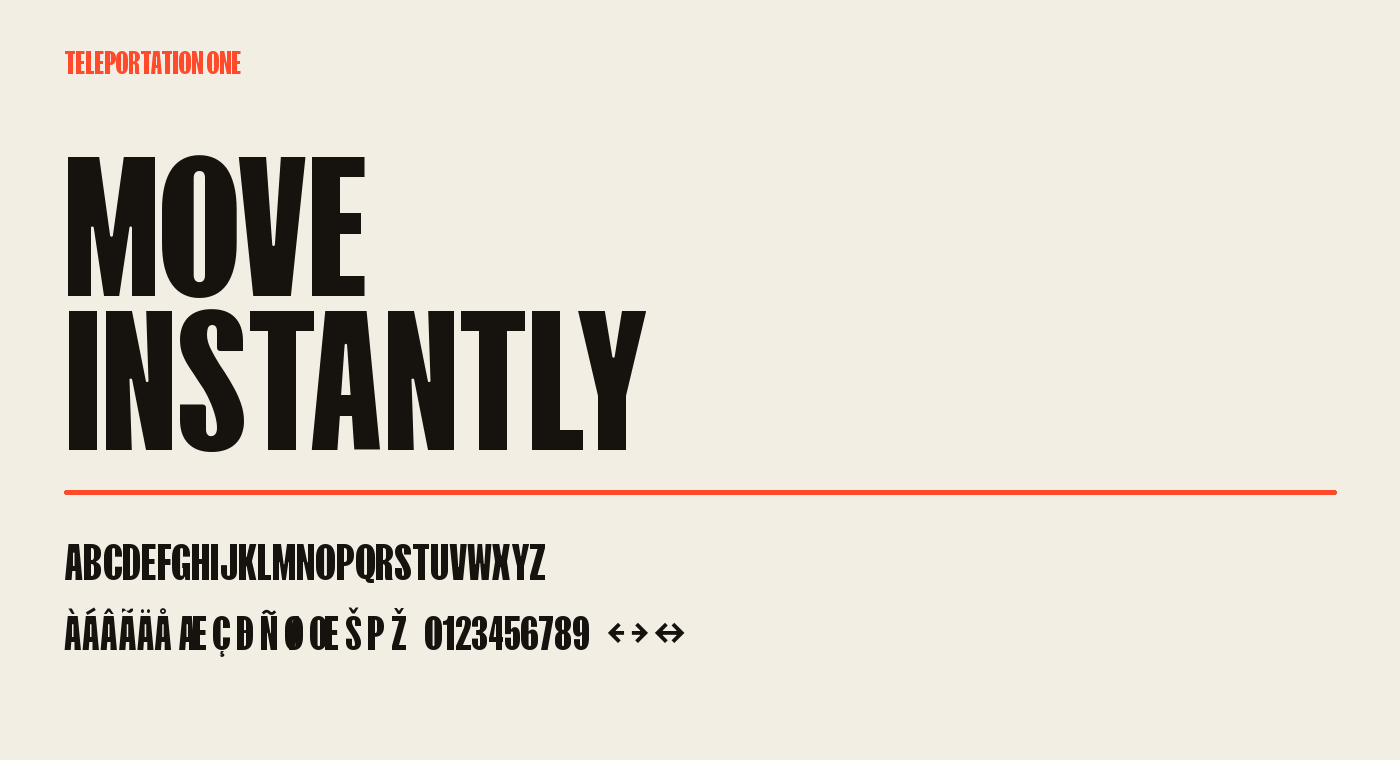
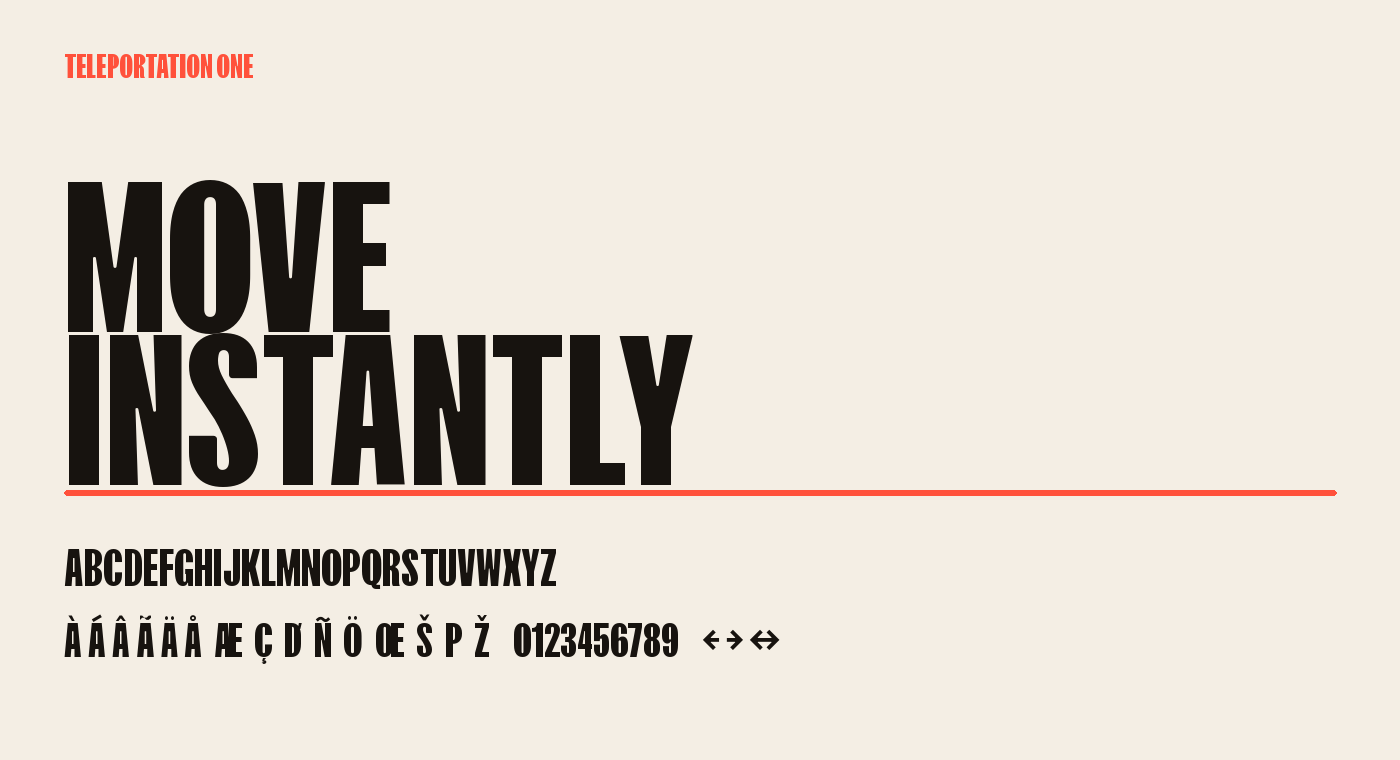
Render specimen with OpenType shaping

Changed region(s): [[0.0307, 0.1816, 0.4914, 0.6658], [0.0307, 0.6961, 0.5529, 0.8776], [0.0307, 0.0605, 0.1843, 0.1211]]

diff --git a/scripts/render_specimen.py b/scripts/render_specimen.py
@@ -1,0 +1,81 @@
+#!/usr/bin/env python3
+"""Render the project specimen through the same OpenType shaping used by apps."""
+
+from __future__ import annotations
+
+import argparse
+from pathlib import Path
+
+from PIL import Image, ImageDraw, ImageFont, features
+
+
+ROOT = Path(__file__).resolve().parents[1]
+FONT_PATH = ROOT / "fonts" / "ttf" / "TeleportationOne-Regular.ttf"
+DEFAULT_OUTPUT = ROOT / "documentation" / "teleportation-one-specimen.png"
+
+BACKGROUND = "#f4eee4"
+FOREGROUND = "#17130f"
+ACCENT = "#ff513b"
+
+
+def shaped_font(size: int) -> ImageFont.FreeTypeFont:
+    if not features.check_feature("raqm"):
+        raise RuntimeError("Pillow must be built with RAQM/HarfBuzz support")
+    return ImageFont.truetype(
+        FONT_PATH,
+        size,
+        layout_engine=ImageFont.Layout.RAQM,
+    )
+
+
+def draw_shaped(
+    draw: ImageDraw.ImageDraw,
+    xy: tuple[int, int],
+    text: str,
+    font: ImageFont.FreeTypeFont,
+    *,
+    fill: str = FOREGROUND,
+) -> None:
+    draw.text(
+        xy,
+        text,
+        font=font,
+        fill=fill,
+        direction="ltr",
+        language="en",
+        features=["kern", "liga"],
+        anchor="la",
+    )
+
+
+def render(output: Path) -> None:
+    image = Image.new("RGB", (1400, 760), BACKGROUND)
+    draw = ImageDraw.Draw(image)
+
+    draw_shaped(draw, (64, 48), "TELEPORTATION ONE", shaped_font(30), fill=ACCENT)
+    draw_shaped(draw, (64, 142), "MOVE", shaped_font(190))
+    draw_shaped(draw, (64, 295), "INSTANTLY", shaped_font(190))
+
+    draw.rounded_rectangle((64, 490, 1336, 495), radius=2, fill=ACCENT)
+
+    draw_shaped(draw, (64, 540), "ABCDEFGHIJKLMNOPQRSTUVWXYZ", shaped_font(46))
+    draw_shaped(
+        draw,
+        (64, 615),
+        "À Á Â Ã Ä Å  Æ  Ç  Ď  Ñ  Ö  Œ  Š  Þ  Ž    0123456789    ← → ↔",
+        shaped_font(42),
+    )
+
+    output.parent.mkdir(parents=True, exist_ok=True)
+    image.save(output, optimize=True)
+
+
+def main() -> None:
+    parser = argparse.ArgumentParser()
+    parser.add_argument("--output", type=Path, default=DEFAULT_OUTPUT)
+    args = parser.parse_args()
+    render(args.output)
+
+
+if __name__ == "__main__":
+    main()

diff --git a/README.md b/README.md
@@ -39,6 +39,12 @@ With the dependencies installed, run:
 The checks cover UFO validity, OpenType sanitization, Google Fonts Latin Core
 coverage, and the FontBakery Google Fonts profile.
 
+Regenerate the documentation specimen through OpenType shaping with:
+
+```sh
+python scripts/render_specimen.py
+```
+
 ## License and copyright
 
 Teleportation One is licensed under the SIL Open Font License, Version 1.1,
